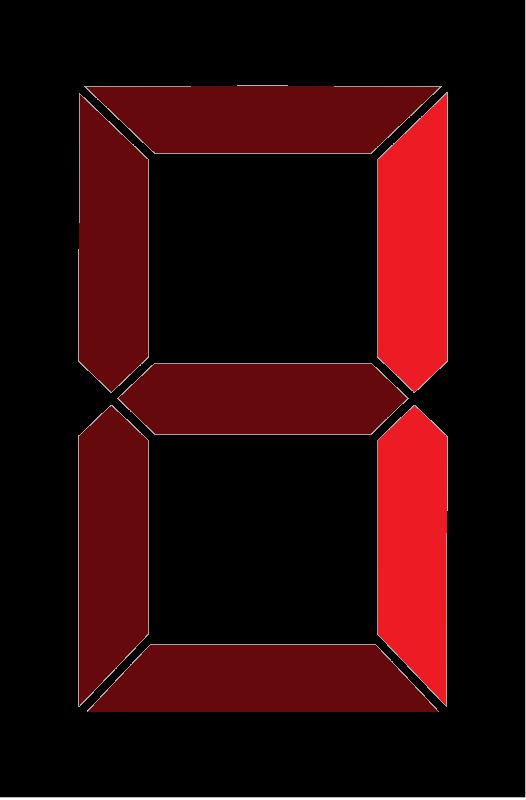
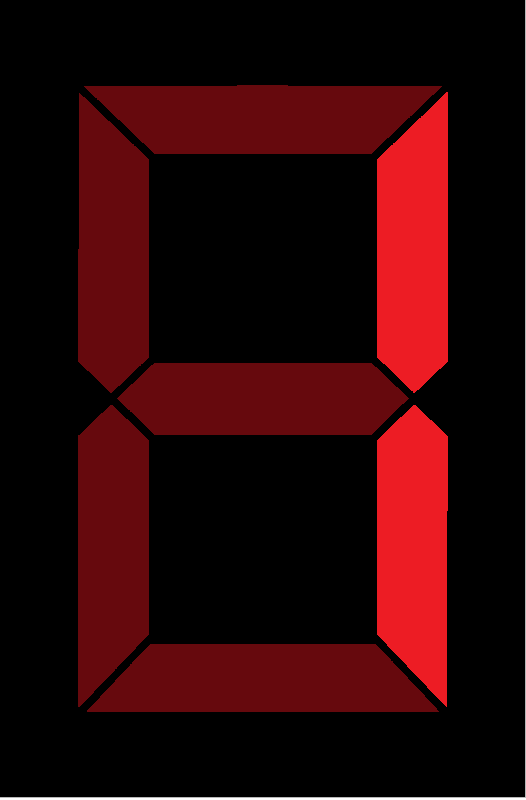
Image and bug fix
Fixes SSD images and removes some bomb counter bugs.

diff --git a/Minesweeper/src/mineSweeper/Game.java b/Minesweeper/src/mineSweeper/Game.java
@@ -115,7 +115,7 @@ public class Game {
 	
 	public void clickedRight(int x, int y)
 	{
-		if(!dead && !finish)
+		if(!dead && !finish && board.getBombCounter() > 0)
 		{
 			int tileX = x/width;
 			int tileY = y/height;
@@ -124,6 +124,15 @@ public class Game {
 				board.bombCounter(true);
 			} else if (!tiles[tileX][tileY].isFlag() && !tiles[tileX][tileY].isOpened()){
 				board.bombCounter(false);
+			}
+		} else if (!dead && !finish && board.getBombCounter() == 0)
+		{
+			int tileX = x/width;
+			int tileY = y/height;
+			if (tiles[tileX][tileY].isFlag() && !tiles[tileX][tileY].isOpened())
+			{
+			tiles[tileX][tileY].placeFlag();
+			board.bombCounter(false);
 			}
 		}
 		checkFinish();

diff --git a/Minesweeper/src/mineSweeper/Board.java b/Minesweeper/src/mineSweeper/Board.java
@@ -166,9 +166,11 @@ public class Board extends JFrame implements MouseListener, KeyListener, ActionL
 	
 	public void bombCounter(boolean add){
 		if (add){
+			if (this.getBombCounter() > 0){
 			setBombCounter(this.getBombCounter()-1);
 			bombDigits[0].setIcon(timerIcons[this.getBombCounter()/10]);
 			bombDigits[1].setIcon(timerIcons[this.getBombCounter()%10]);
+			}
 		} else {
 			setBombCounter(this.getBombCounter()+1);
 			bombDigits[0].setIcon(timerIcons[this.getBombCounter()/10]);
